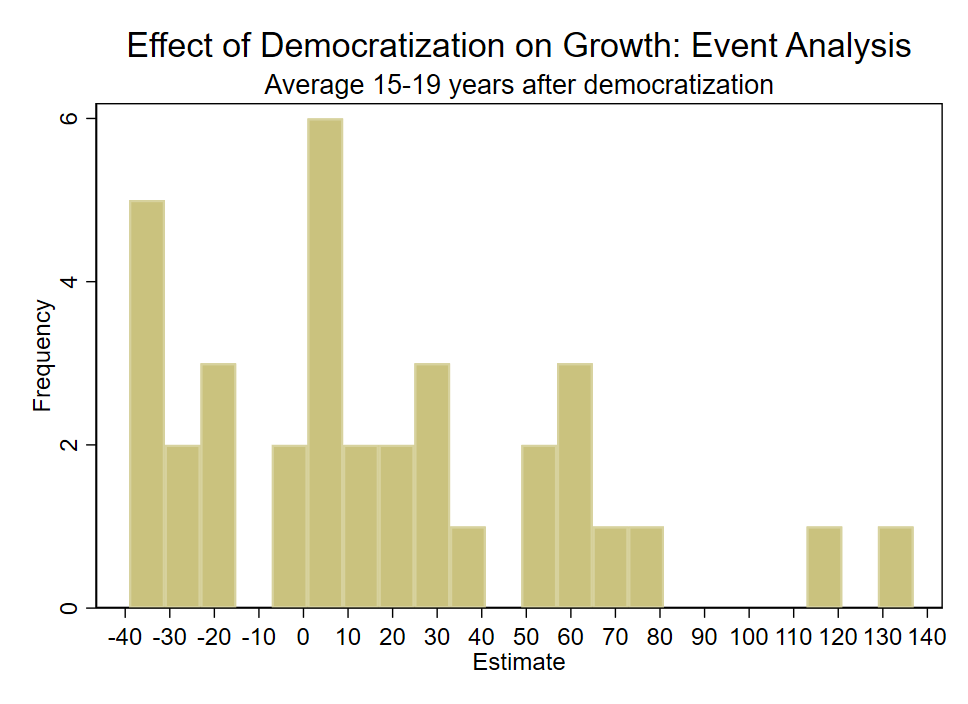
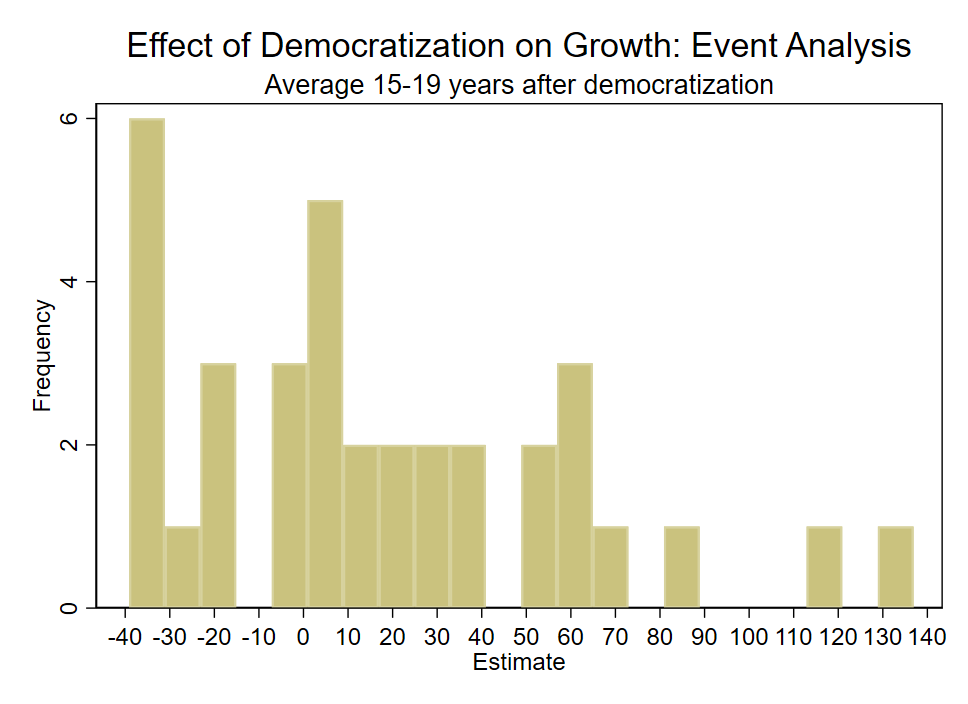
almost done

diff --git a/DDCG_Replication/tables/summary4a.tex b/DDCG_Replication/tables/summary4a.tex
@@ -5,7 +5,7 @@
 \toprule
                     &        Obs.&        Mean&      Median&   Std. Dev.\\
 \midrule
-Average Effect 15-19 years&          35&       17.99&         6.3&       42.64\\
+Average Effect 15-19 years&          35&       18.11&         6.9&       43.11\\
 \bottomrule
 \end{tabular}
 \end{table}
